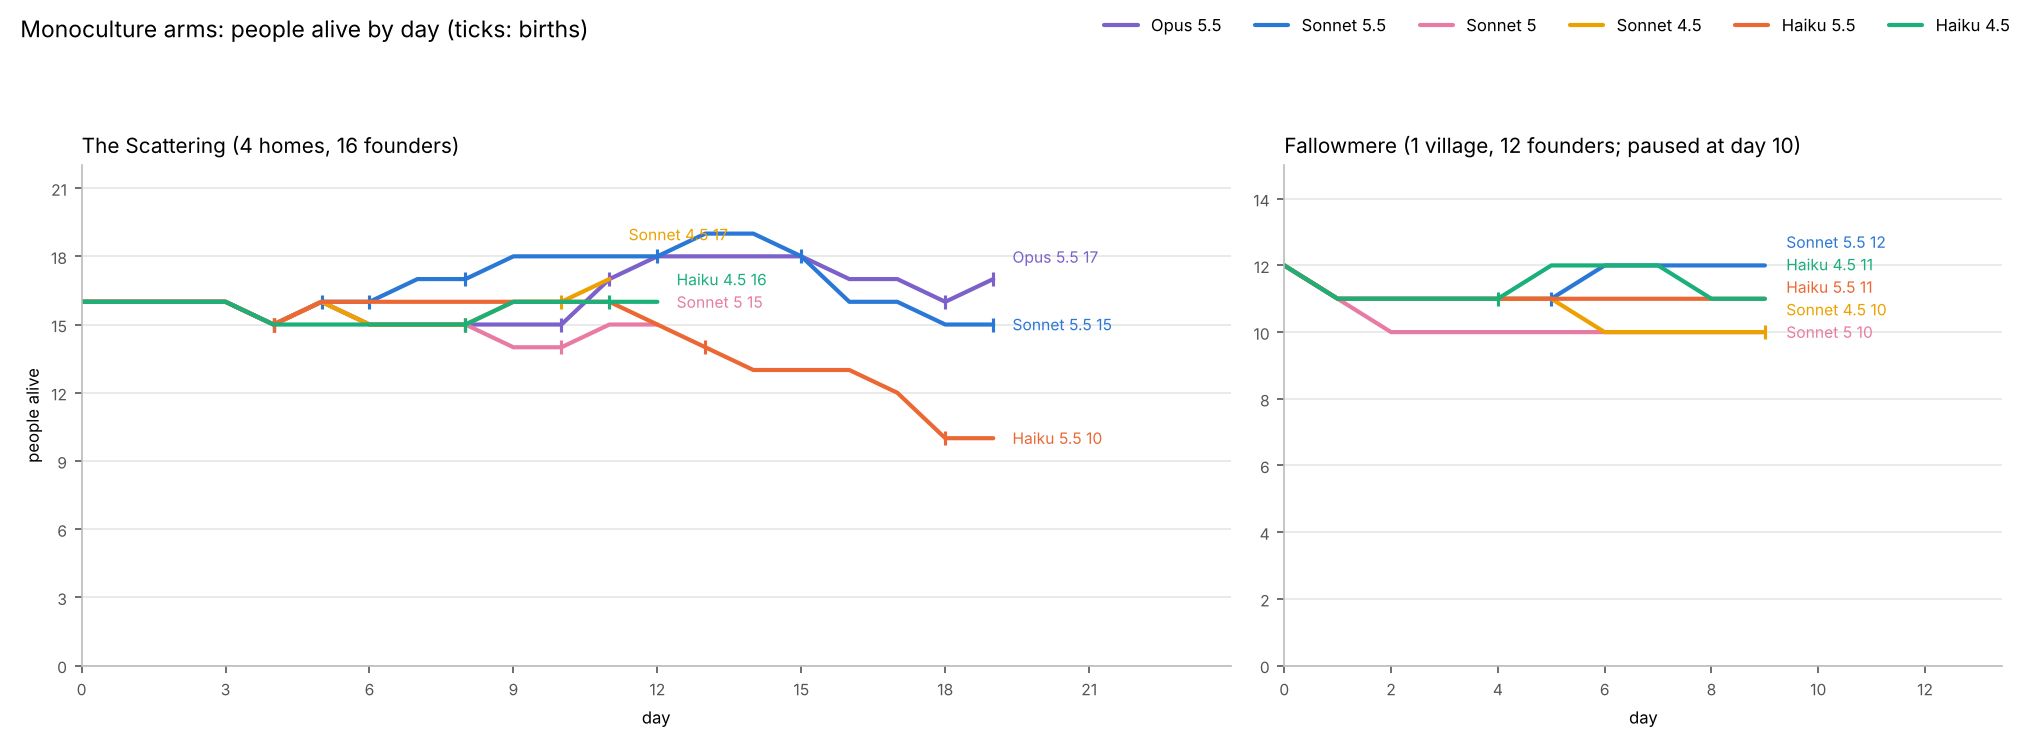
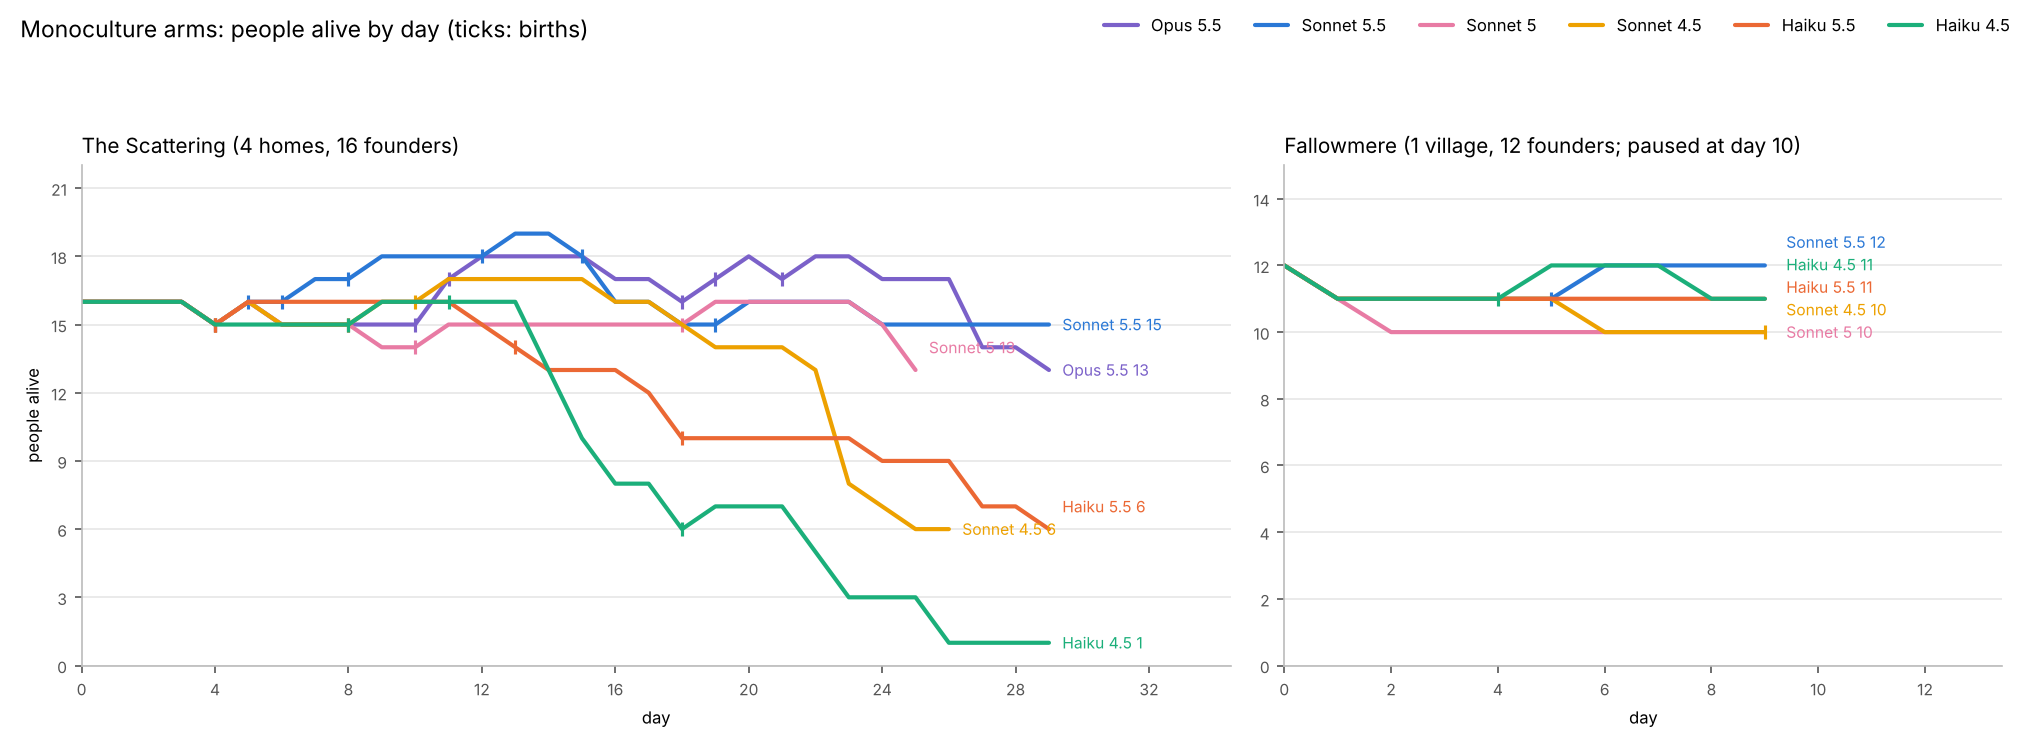
run W-204: 18:50: the Scattering at day 30 for four arms; the first winter
Agent: bench
Thread: W-204

diff --git a/docs/cybertron2/items/W-204.md b/docs/cybertron2/items/W-204.md
@@ -7,7 +7,7 @@ state: active
 created: "2026-11-25"
 seq: 117
 parent: ["W-201"]
-next: "the 12 hours of hourly checks ended 17:24 UTC (scheduled task deleted, Zach's 12 hours); the Scattering's runner alive (restarted 17:18) with a tracked watch for as long as the session stays up; Opus 5.5, Sonnet 5.5, Haiku 5.5 wait at day 20 for Sonnet 5 (15), Haiku 4.5 (14), Sonnet 4.5 (13); Fallowmere's five paused at day 10, published; week 84%; open: a separate session to keep long runs going (asked of Zach)"
+next: "18:50 UTC: the session stayed up and the runner ran on; Opus 5.5, Sonnet 5.5, Haiku 5.5, Haiku 4.5 at day 30 (13, 15, 6, 1 alive), Sonnet 4.5 27 (6), Sonnet 5 26 (13); deaths since day 20 mostly hunger, the first winter (days 24 to 31): Sonnet 4.5 8, Haiku 4.5 6, Opus 3, Sonnet 5.5 none; usage five-hour 98%, week 97%: the week nearly spent"
 notes: started
 started: 25 Nov
 table: in_progress
